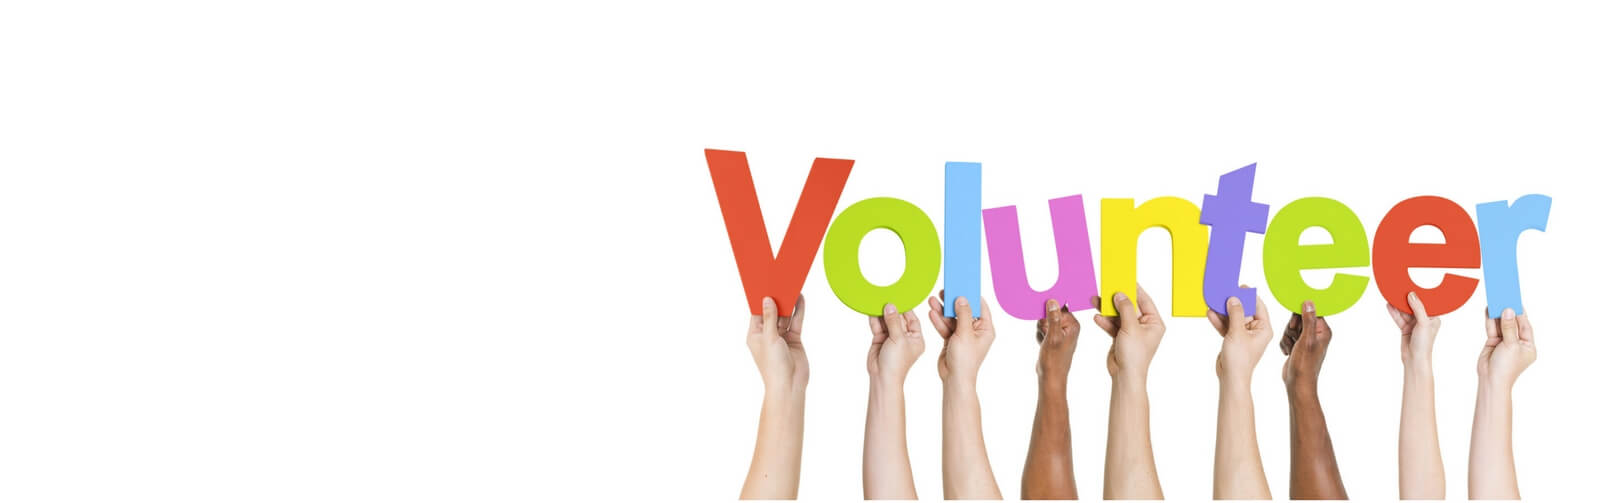
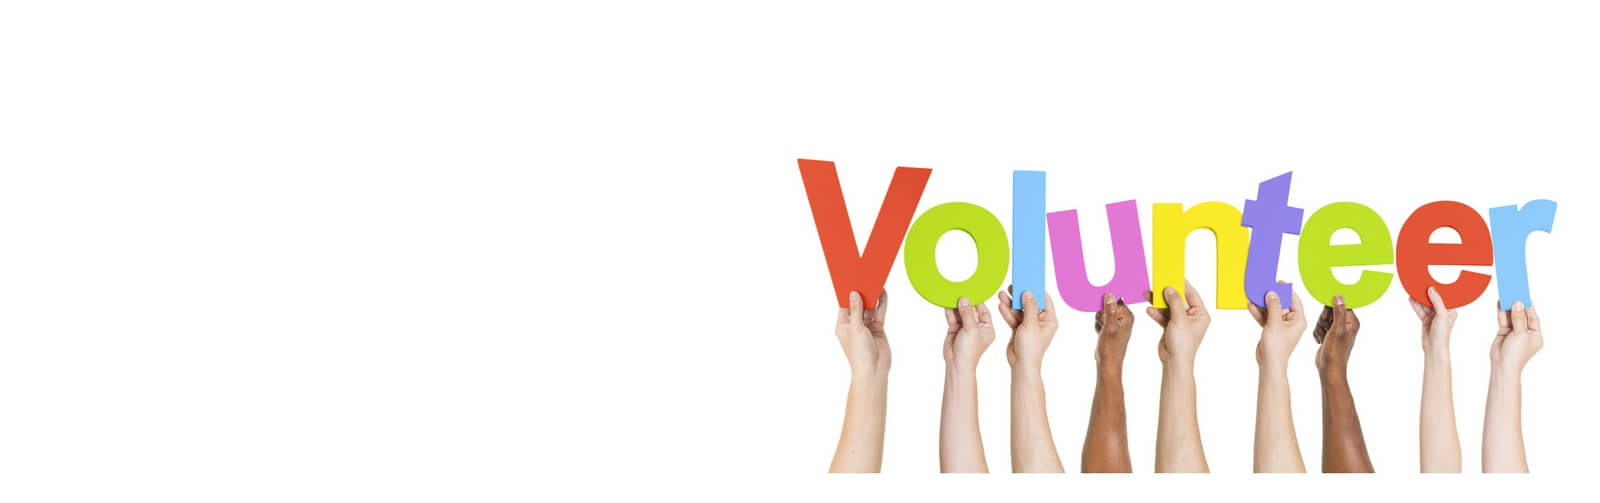
Atualização de header e tesde de CFA 3

Changed region(s): [[0.4375, 0.2982, 0.9688, 1.0], [0.9688, 0.4175, 1.0, 0.4473]]

diff --git a/pages/como-ajudar.md b/pages/como-ajudar.md
@@ -22,7 +22,7 @@ Você pode...<br/>
 ...colaborar no sucesso das [campanhas que estamos promovendo >]({{ site.baseurl }}/campanhas/);<br/>
 ...ou você pode sugerir alguma ideias para que possamos colocar em prática em breve! [Fale conosco >]({{ site.baseurl }}/campanhas/).
 
-{% include alert success="Yay! you did it!" classes='round' %}
+[Veja nossas atividades ›]({{ site.baseurl }}/atividades/){: .t30 .button .radius}
 
 ### Torne-se voluntário
 
